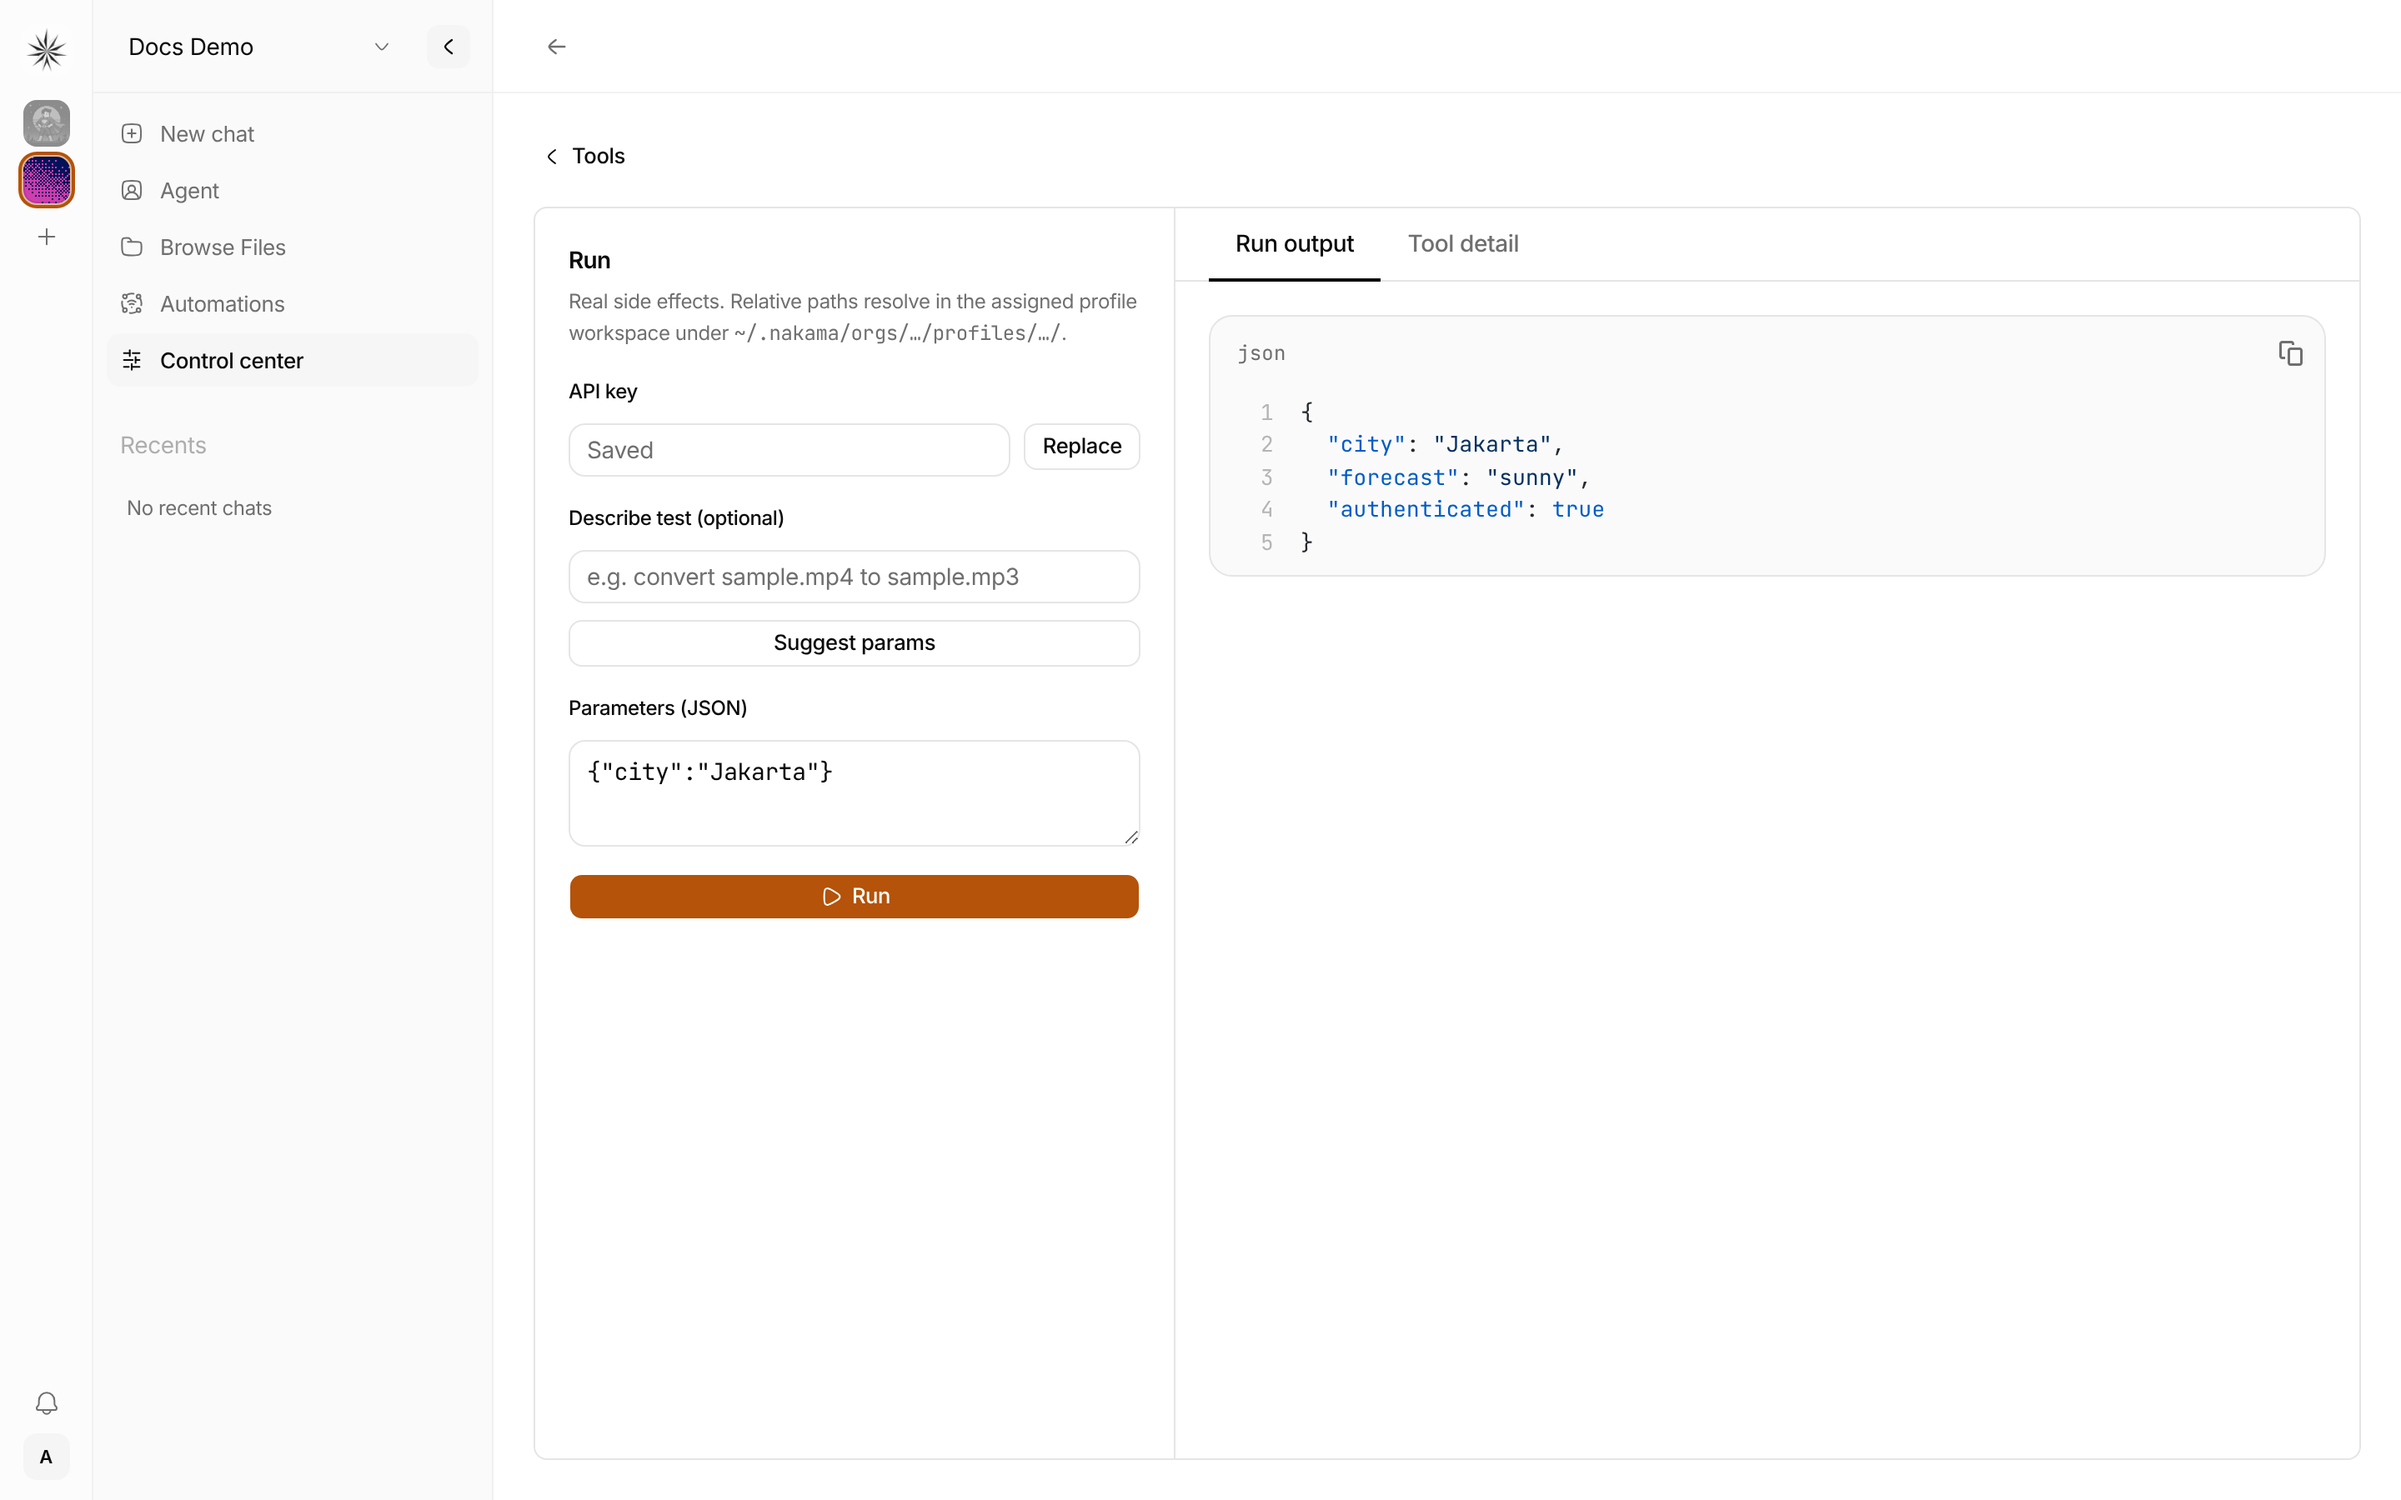
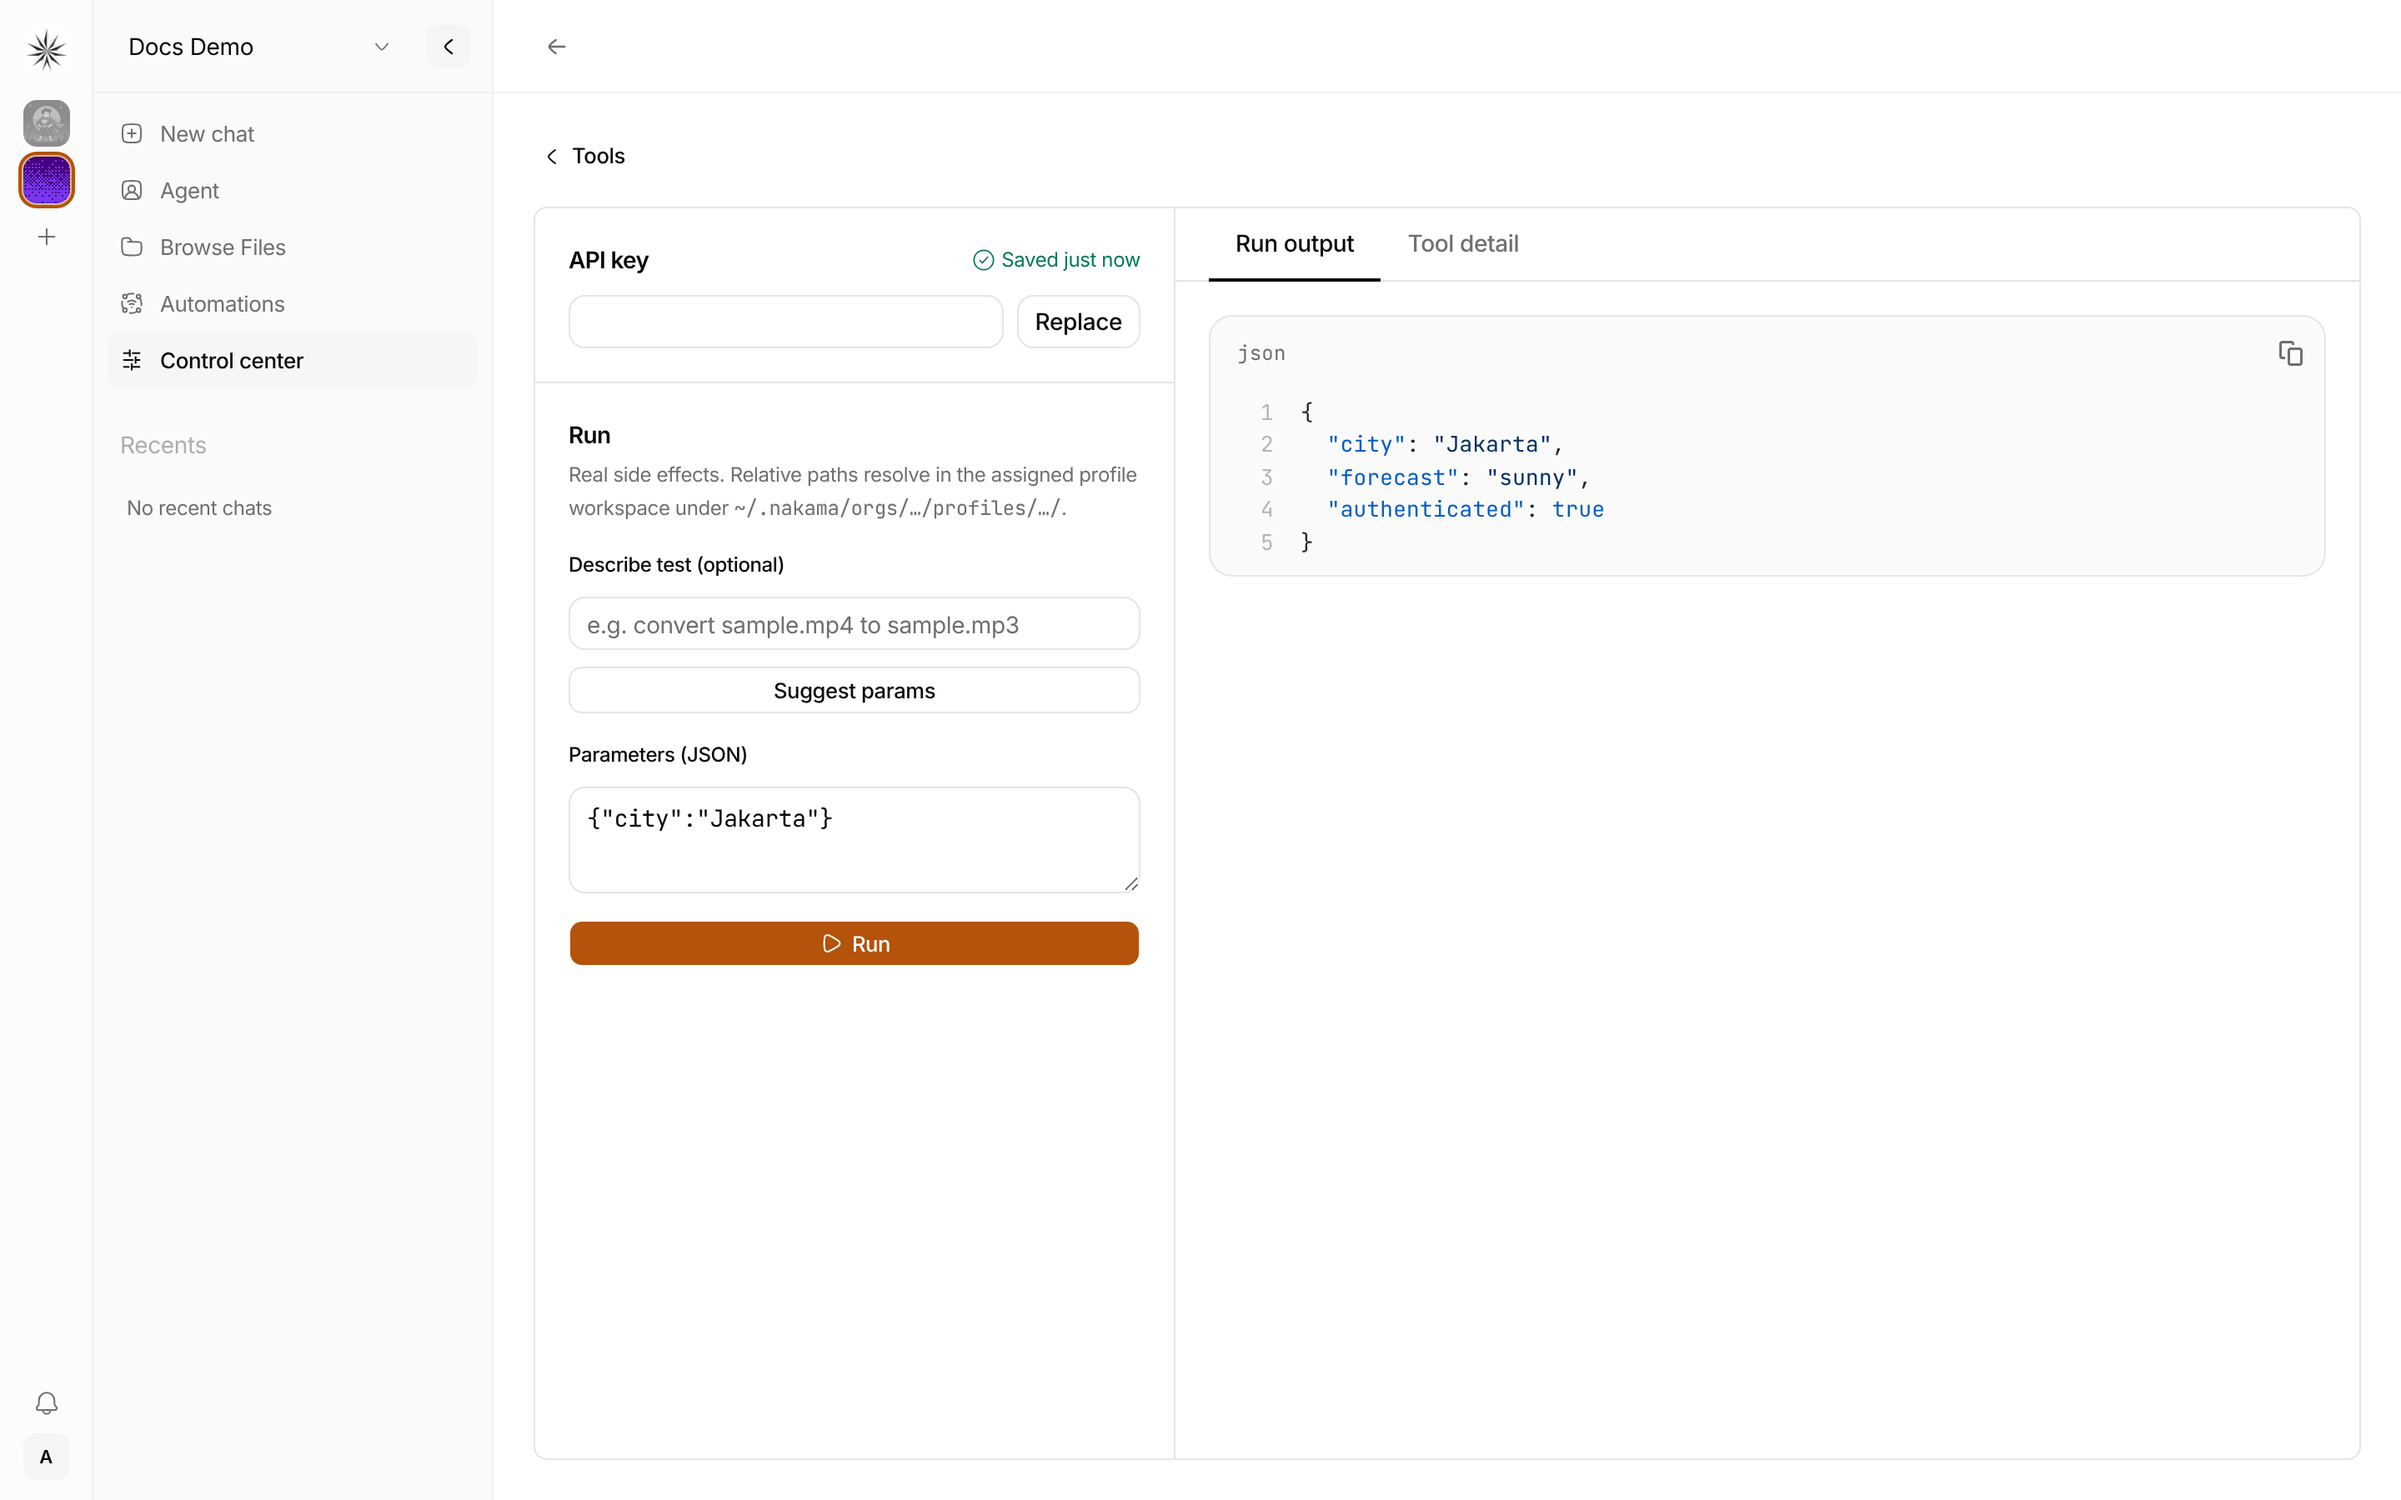
Polish tool playground API key form
Give the key its own section above Run, show saved state as a status
label instead of a placeholder, confirm a save, block password
autofill, and match the button height to the input.

Claude-Session: https://claude.ai/code/session_016ihaf3wZVPmUQWsZB2PcG8

Changed region(s): [[0.2188, 0.1556, 0.4688, 0.4667], [0.2188, 0.4667, 0.5, 0.6533], [0.0, 0.0933, 0.0312, 0.1556]]

diff --git a/apps/web/src/components/tools/ToolPlaygroundPanel.tsx b/apps/web/src/components/tools/ToolPlaygroundPanel.tsx
@@ -4,7 +4,7 @@ import { Input } from "@nakama/ui/input";
 import { Spinner } from "@nakama/ui/spinner";
 import { Textarea } from "@nakama/ui/textarea";
 import { useQuery, useQueryClient } from "@tanstack/react-query";
-import { PlayIcon } from "hugeicons-react";
+import { CheckmarkCircle02Icon, PlayIcon } from "hugeicons-react";
 import { useState } from "react";
 import { ToolSourceCodeBlock } from "@/components/tools/ToolSourceCodeBlock";
 import {
@@ -21,89 +21,90 @@ export function ToolPlaygroundRunForm({
   run: ToolPlaygroundRunControls;
 }) {
   return (
-    <div className="space-y-4 p-4 sm:p-5">
-      <div>
-        <h3 className="type-section-title">Run</h3>
-        <p className="type-body mt-1 text-xs">
-          Real side effects. Relative paths resolve in the assigned profile
-          workspace under{" "}
-          <code className="type-code">~/.nakama/orgs/…/profiles/…/</code>.
-        </p>
-      </div>
-
+    <>
       <ToolApiKeyForm toolId={tool.id} />
+      <div className="space-y-4 p-4 sm:p-5">
+        <div>
+          <h3 className="type-section-title">Run</h3>
+          <p className="type-body mt-1 text-xs">
+            Real side effects. Relative paths resolve in the assigned profile
+            workspace under{" "}
+            <code className="type-code">~/.nakama/orgs/…/profiles/…/</code>.
+          </p>
+        </div>
 
-      <div className="flex flex-col gap-2.5">
-        <label
-          className="font-medium text-foreground text-xs"
-          htmlFor={`${tool.id}-assist`}
-        >
-          Describe test (optional)
-        </label>
-        <Input
-          disabled={run.suggesting || run.running}
-          id={`${tool.id}-assist`}
-          onChange={(event) => run.setAssistPrompt(event.target.value)}
-          placeholder="e.g. convert sample.mp4 to sample.mp3"
-          value={run.assistPrompt}
-        />
+        <div className="flex flex-col gap-2.5">
+          <label
+            className="font-medium text-foreground text-xs"
+            htmlFor={`${tool.id}-assist`}
+          >
+            Describe test (optional)
+          </label>
+          <Input
+            disabled={run.suggesting || run.running}
+            id={`${tool.id}-assist`}
+            onChange={(event) => run.setAssistPrompt(event.target.value)}
+            placeholder="e.g. convert sample.mp4 to sample.mp3"
+            value={run.assistPrompt}
+          />
+          <Button
+            className="w-full"
+            disabled={run.suggesting || run.running}
+            onClick={() => void run.handleSuggestParams()}
+            size="sm"
+            type="button"
+            variant="outline"
+          >
+            {run.suggesting ? <Spinner className="size-4" /> : null}
+            Suggest params
+          </Button>
+        </div>
+
+        <div className="flex flex-col gap-2.5">
+          <label
+            className="font-medium text-foreground text-xs"
+            htmlFor={`${tool.id}-params`}
+          >
+            Parameters (JSON)
+          </label>
+          <Textarea
+            className="font-mono text-xs"
+            disabled={run.running}
+            id={`${tool.id}-params`}
+            onChange={(event) => {
+              run.setParametersJson(event.target.value);
+            }}
+            rows={10}
+            spellCheck={false}
+            value={run.parametersJson}
+          />
+          {run.jsonError ? (
+            <p className="text-destructive text-xs">{run.jsonError}</p>
+          ) : null}
+        </div>
+
         <Button
           className="w-full"
-          disabled={run.suggesting || run.running}
-          onClick={() => void run.handleSuggestParams()}
+          disabled={run.running}
+          onClick={() => void run.handleRun()}
           size="sm"
           type="button"
-          variant="outline"
         >
-          {run.suggesting ? <Spinner className="size-4" /> : null}
-          Suggest params
+          {run.running ? (
+            <Spinner className="size-4" />
+          ) : (
+            <PlayIcon className="size-4" />
+          )}
+          Run
         </Button>
-      </div>
 
-      <div className="flex flex-col gap-2.5">
-        <label
-          className="font-medium text-foreground text-xs"
-          htmlFor={`${tool.id}-params`}
-        >
-          Parameters (JSON)
-        </label>
-        <Textarea
-          className="font-mono text-xs"
-          disabled={run.running}
-          id={`${tool.id}-params`}
-          onChange={(event) => {
-            run.setParametersJson(event.target.value);
-          }}
-          rows={10}
-          spellCheck={false}
-          value={run.parametersJson}
-        />
-        {run.jsonError ? (
-          <p className="text-destructive text-xs">{run.jsonError}</p>
+        {run.actionError ? (
+          <p className="rounded-md border border-destructive/40 bg-destructive/10 px-3 py-2 text-destructive text-xs">
+            {run.actionError}
+          </p>
         ) : null}
       </div>
-
-      <Button
-        className="w-full"
-        disabled={run.running}
-        onClick={() => void run.handleRun()}
-        size="sm"
-        type="button"
-      >
-        {run.running ? (
-          <Spinner className="size-4" />
-        ) : (
-          <PlayIcon className="size-4" />
-        )}
-        Run
-      </Button>
-
-      {run.actionError ? (
-        <p className="rounded-md border border-destructive/40 bg-destructive/10 px-3 py-2 text-destructive text-xs">
-          {run.actionError}
-        </p>
-      ) : null}
-    </div>
+    </>
   );
 }
 
@@ -115,20 +116,23 @@ function ToolApiKeyForm({ toolId }: { toolId: string }) {
     queryKey,
   });
   const [saving, setSaving] = useState(false);
+  const [justSaved, setJustSaved] = useState(false);
   const [error, setError] = useState<string | null>(null);
   const inputId = `${toolId}-api-key`;
+  const configured = status.data?.configured === true;
 
   return (
     <form
-      className="flex flex-col gap-2.5"
+      className="space-y-2.5 border-border border-b p-4 sm:p-5"
       onSubmit={async (event) => {
         event.preventDefault();
         if (saving) {
           return;
         }
         const form = event.currentTarget;
-        const apiKey = String(new FormData(form).get("apiKey") ?? "");
+        const apiKey = String(new FormData(form).get("toolApiKey") ?? "");
         setSaving(true);
+        setJustSaved(false);
         setError(null);
         try {
           queryClient.setQueryData(
@@ -136,6 +140,7 @@ function ToolApiKeyForm({ toolId }: { toolId: string }) {
             await client.saveToolCredential(toolId, apiKey)
           );
           form.reset();
+          setJustSaved(true);
         } catch (saveError) {
           setError(formatError(saveError));
         } finally {
@@ -143,25 +148,44 @@ function ToolApiKeyForm({ toolId }: { toolId: string }) {
         }
       }}
     >
-      <label className="font-medium text-foreground text-xs" htmlFor={inputId}>
-        API key
-      </label>
+      <div className="flex items-center justify-between gap-2">
+        <label className="type-section-title" htmlFor={inputId}>
+          API key
+        </label>
+        {status.data ? (
+          <span
+            className={
+              configured
+                ? "flex items-center gap-1 text-emerald-700 text-xs dark:text-emerald-400"
+                : "text-muted-foreground text-xs"
+            }
+            role="status"
+          >
+            {configured ? (
+              <CheckmarkCircle02Icon aria-hidden className="size-3.5" />
+            ) : null}
+            {justSaved ? "Saved just now" : configured ? "Saved" : "Not set"}
+          </span>
+        ) : null}
+      </div>
       <div className="flex gap-2">
+        {/* new-password + a non-login name keep browsers and password
+            managers from filling in the user's own sign-in password. */}
         <Input
-          autoComplete="off"
+          autoComplete="new-password"
+          data-1p-ignore
+          data-lpignore="true"
           disabled={saving}
           id={inputId}
           maxLength={8192}
-          name="apiKey"
-          placeholder={
-            status.data?.configured ? "Saved" : "NAKAMA_TOOL_API_KEY"
-          }
+          name="toolApiKey"
+          onChange={() => setJustSaved(false)}
           required
           type="password"
         />
-        <Button disabled={saving} size="sm" type="submit" variant="outline">
+        <Button disabled={saving} type="submit" variant="outline">
           {saving ? <Spinner className="size-4" /> : null}
-          {status.data?.configured ? "Replace" : "Save"}
+          {configured ? "Replace" : "Save"}
         </Button>
       </div>
       {error ? (
